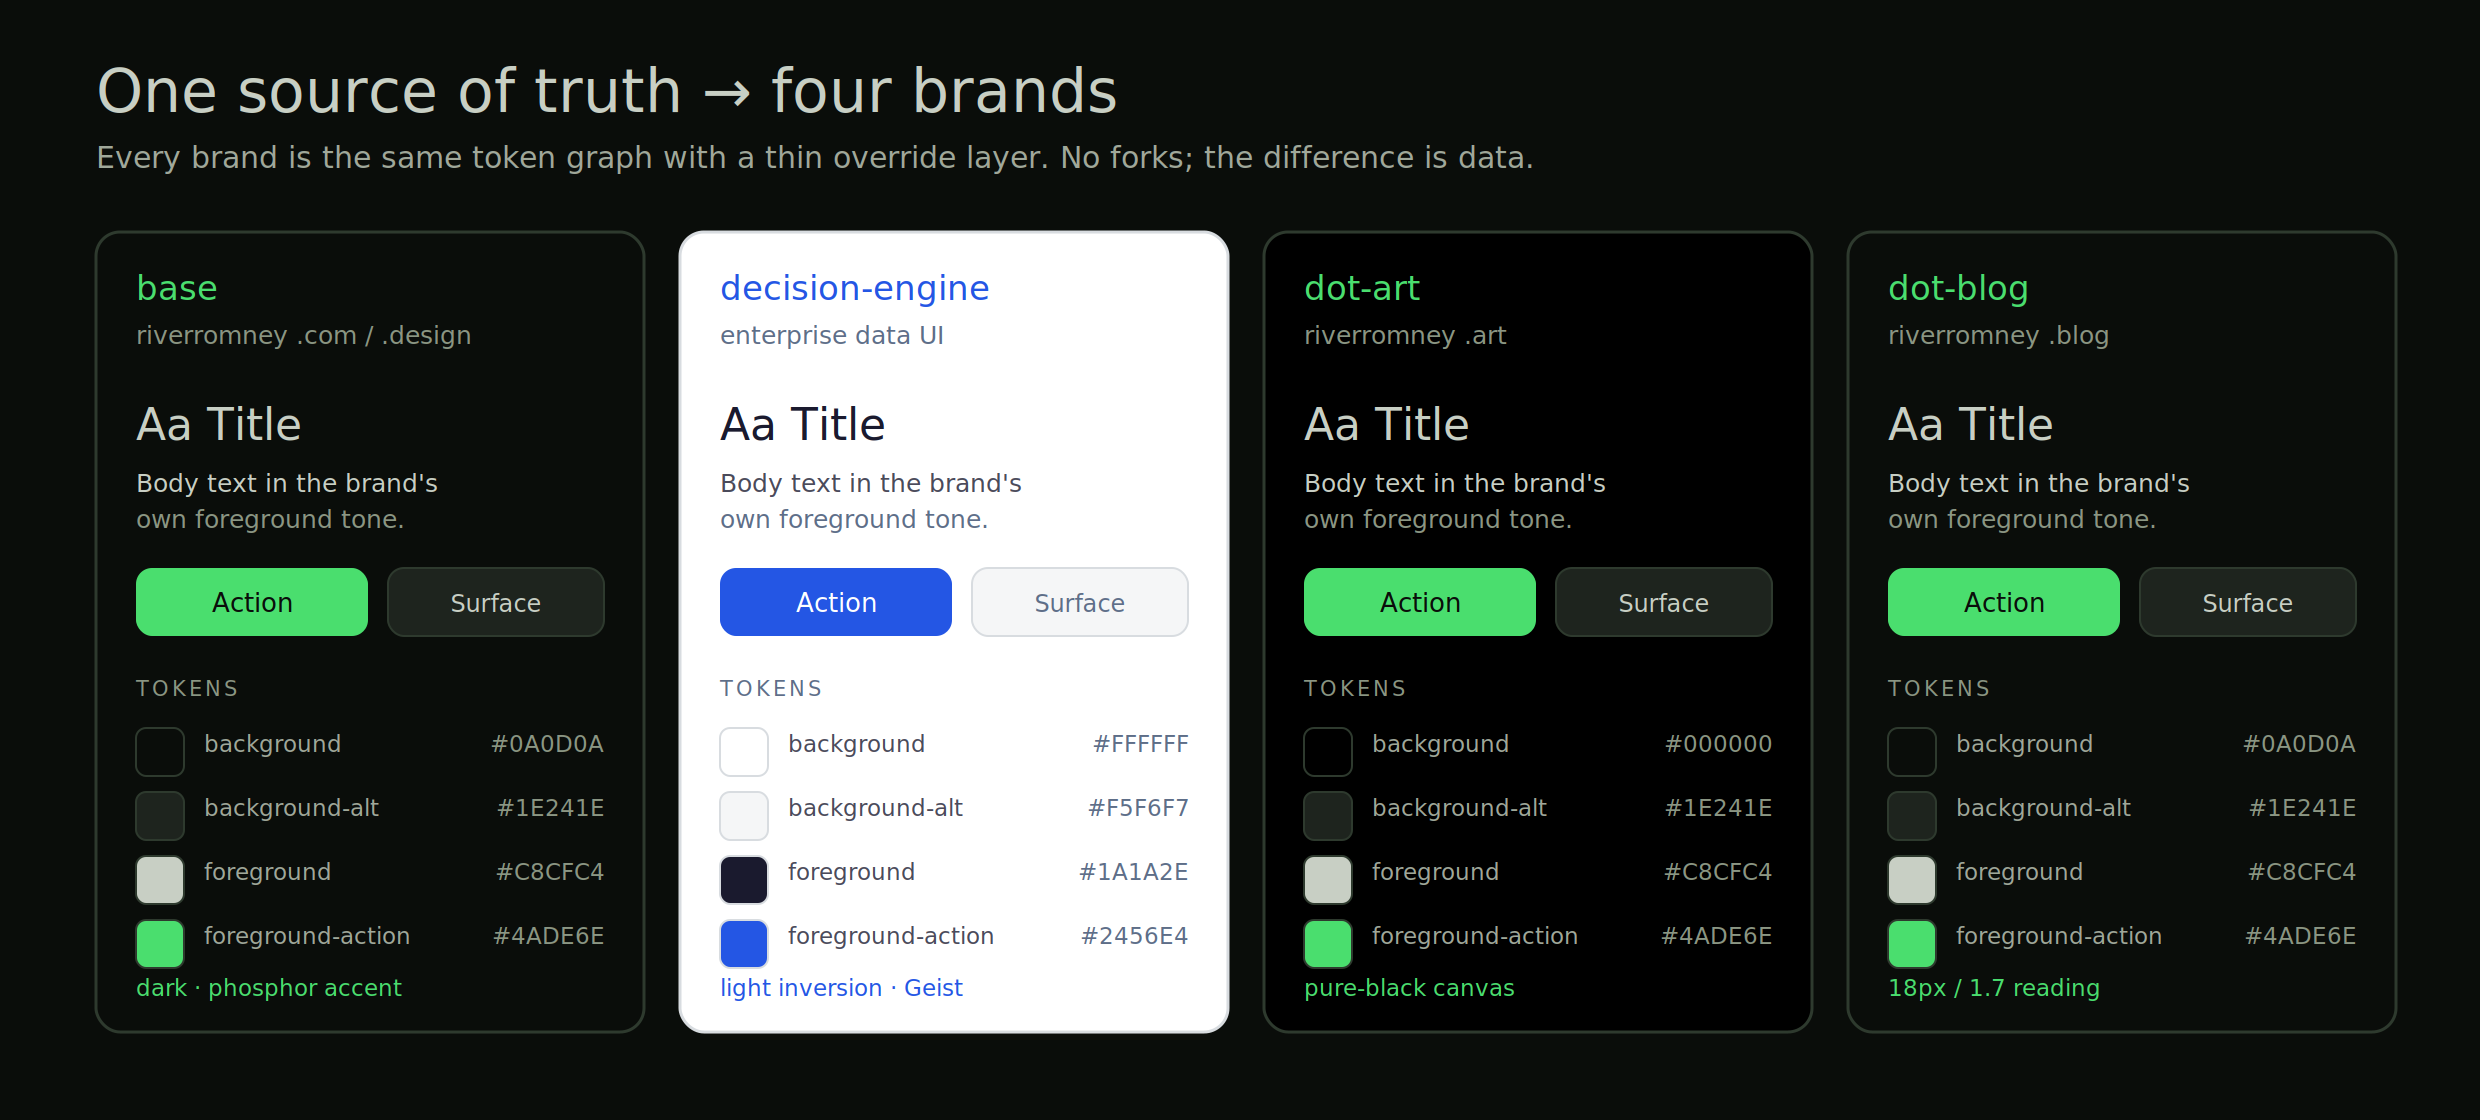
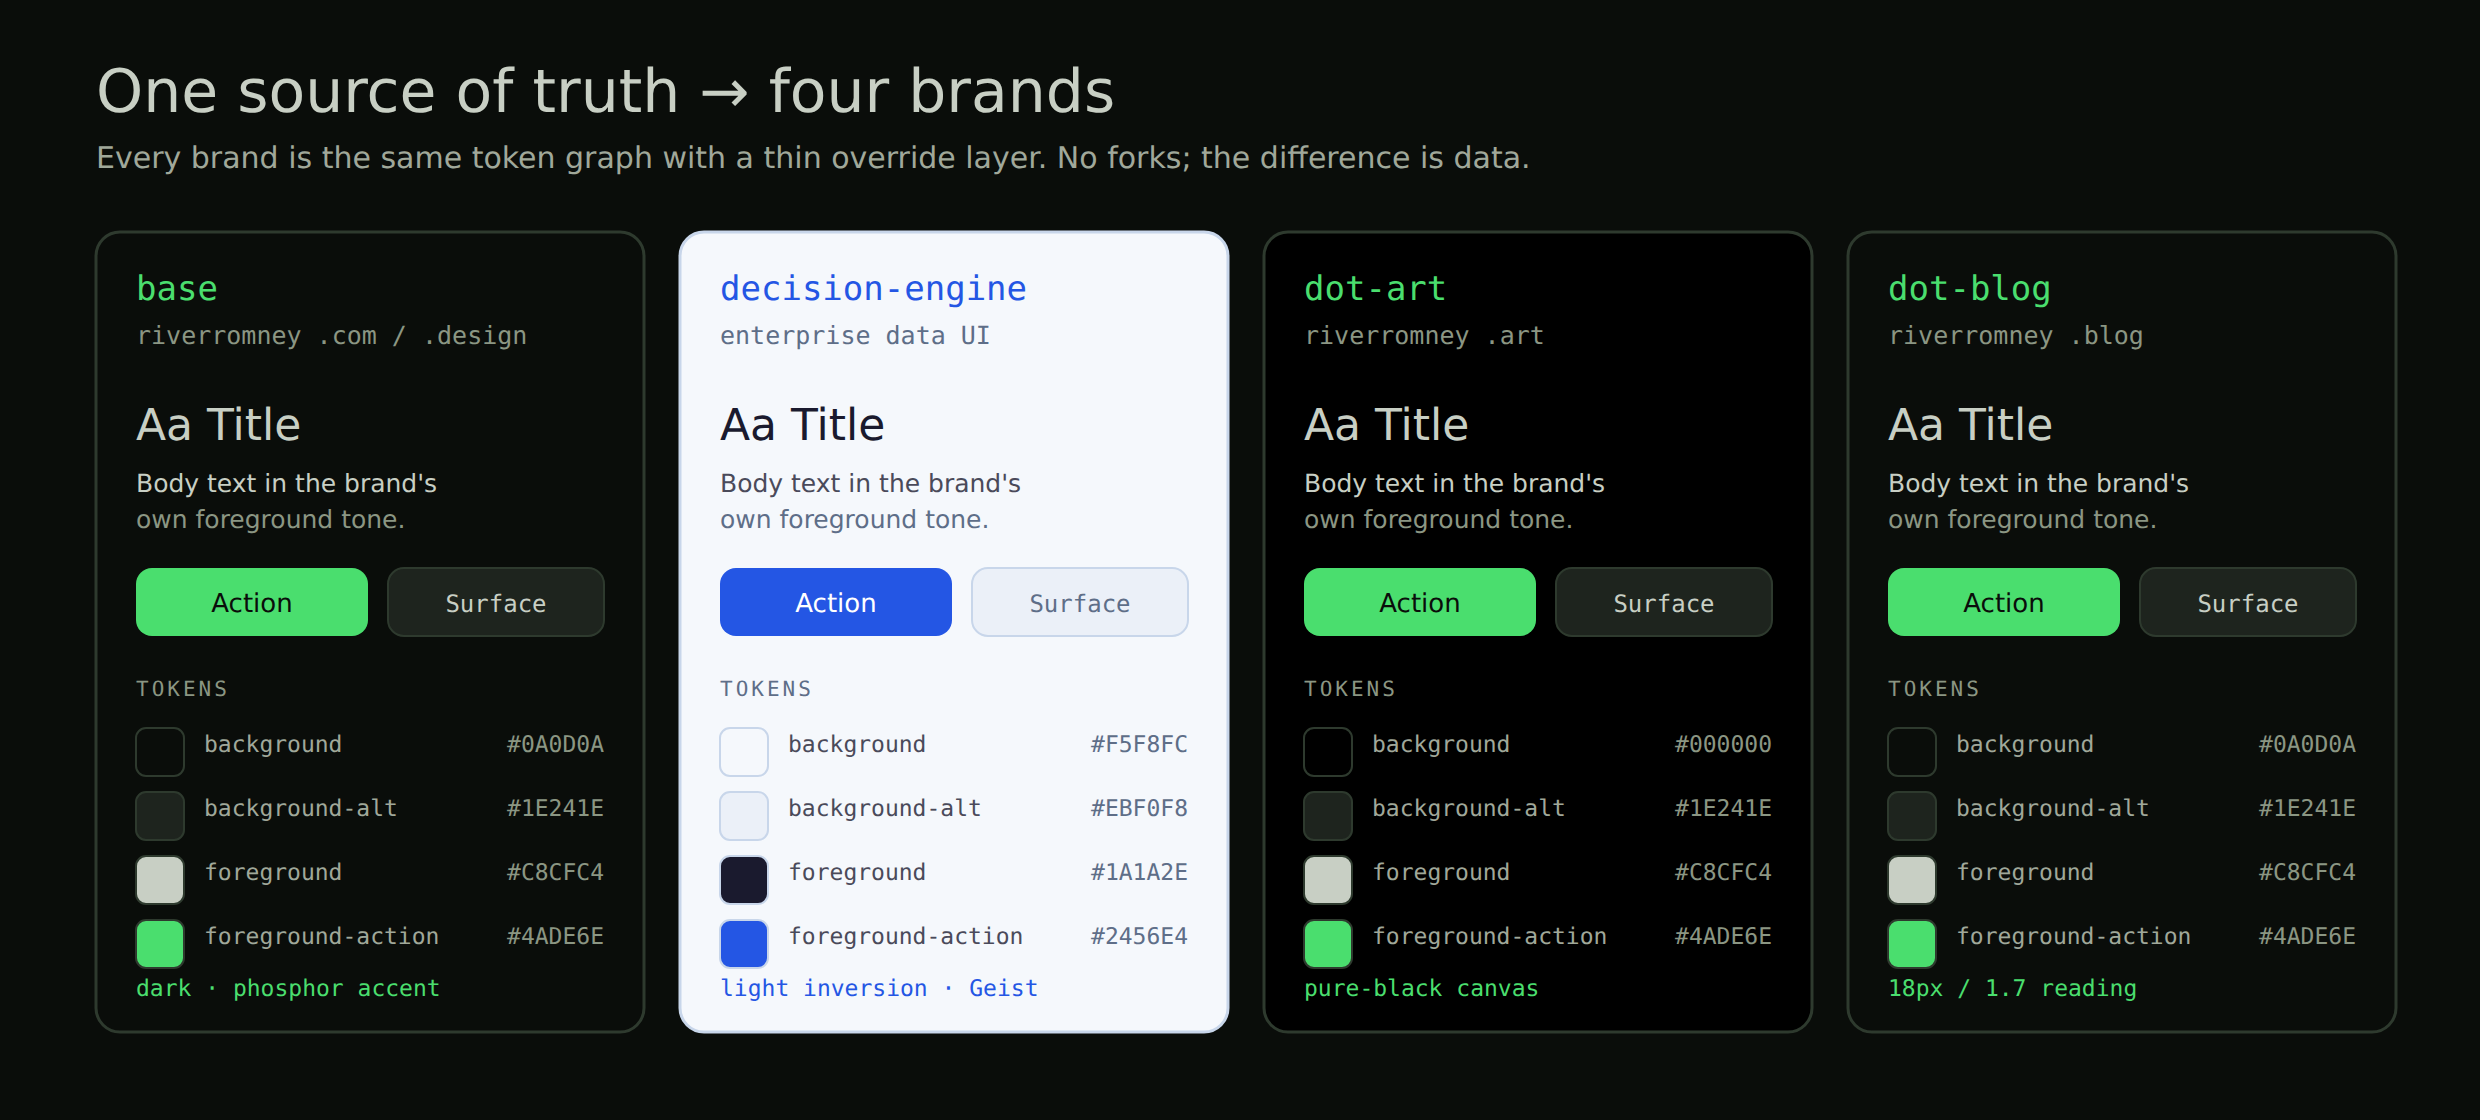
feat: rename /work/design-tokens to /work/system; refresh copy, links, and diagrams (#29)
- Slug rename: cases.ts + caseContent.ts key/slug + Nav SYSTEM link ->
  /work/system, with a 308 redirect from /work/design-tokens in
  next.config.ts (preserves shared/indexed links). Home/work/pager
  links follow the slug automatically.
- /tokens page: the one external link now points at
  github.com/digital2analogue/parsimony (text said Parsimony, href
  still said brand-tokens). Remaining brand-tokens comment mentions
  swept to Parsimony (layout, globals, CaseBlocks, tokens.ts).
- Case copy refreshed to current reality: 18 -> 21 components; the
  'three tools' MCP line -> 17 tools across contracts/tokens/rules/
  decisions/brands/contrast/lint; meta.json coverage moved out of
  'deliberately deferred' (it shipped, 21/21, JSDoc-single-sourced);
  consumer-migration item updated (portfolio, decisioning-table,
  river-intro consume the package today).
- Regenerated 2 stale diagrams from their SVG sources (rendered at 2x
  with the site's own self-hosted fonts): ds-architecture (21
  components, Code Connect 20/21, meta.json 21/21, 17-tool MCP) and
  ds-brands (decision-engine card now shows the arctic canvas
  #F5F8FC/#EBF0F8 from the 0.2.0 reconciliation instead of white).
  ds-meta-json, ds-check-usage, ds-agent-loop verified evergreen
  (badge's 31-token claim still exact).

Verified: 13/13 tests, contrast gate + build green, /work/system
prerendered, curl 308 old->new, pager + nav correct, no design-tokens
[…]

diff --git a/lib/caseContent.ts b/lib/caseContent.ts
@@ -851,8 +851,8 @@ export const CASE_CONTENT: Record<string, CaseContent> = {
       },
     ],
   },
-  "design-tokens": {
-    slug: "design-tokens",
+  "system": {
+    slug: "system",
     title: "Building Parsimony, an Agentic Design System",
     scope: "Token architecture, component library, agent tooling",
     timeline: "2026 (ongoing)",
@@ -925,7 +925,7 @@ export const CASE_CONTENT: Record<string, CaseContent> = {
         items: [
           "**Author.** DTCG tokens in three layers: primitives (raw values) → semantic (named roles) → component (scoped). Brand overrides use the same source.",
           "**Build.** Style Dictionary compiles every brand to CSS. A validation gate rejects hardcoded hex, primitive references, and dangling token aliases, so a rename that wasn't propagated fails the build, not production.",
-          "**Components.** 18 framework-agnostic Lit web components, all wired to Figma via Code Connect.",
+          "**Components.** 21 framework-agnostic Lit web components, wired to Figma via Code Connect.",
           "**Artifact.** Each component's hand-authored metadata merges with its auto-generated Custom Elements Manifest into a single design-system.json.",
           "**Interfaces.** Humans read Figma and Markdown docs; agents read an MCP server.",
           "**Consumers.** Every site and product repo pulls from one source, now as an installable token package.",
@@ -960,7 +960,7 @@ export const CASE_CONTENT: Record<string, CaseContent> = {
       },
       {
         type: "p",
-        text: "All 18 components carry an auto-generated Custom Elements Manifest, the basic API an agent needs to use one. Three of them (badge, button, input) add a hand-written meta.json on top, with the token, rule, and accessibility contract. The rest are built and wired to Figma; the fuller contract is rolling out behind them.",
+        text: "All 21 components carry an auto-generated Custom Elements Manifest, the basic API an agent needs to use one. Every one adds a hand-written meta.json on top, with the token, rule, and accessibility contract — and prop descriptions are single-sourced from the code's JSDoc, so the contract can't drift from the implementation.",
       },
       { type: "hr" },
       { type: "h2", text: "check_usage: Governance, Moved Upstream" },
@@ -1029,8 +1029,8 @@ export const CASE_CONTENT: Record<string, CaseContent> = {
         type: "ul",
         items: [
           "Three-layer token architecture across four brands",
-          "18 Lit web components, all wired to Figma via Code Connect",
-          "MCP server with three tools: list_components, get_component, check_usage",
+          "21 Lit web components, wired to Figma via Code Connect",
+          "MCP server with 17 tools: component contracts, token lookup, design rules and the decision log, brand diffs, WCAG contrast checks, and consumer-repo linting",
           "One shared rule set behind every checker: the build gate, the MCP's check_usage, and the consumer drift scan all import the same rules, so they can't disagree",
           "A CI gate on every change: schema checks, lint rules, token-reference resolution, a stale-artifact check, and a full test suite",
           "Distribution: the token build ships as a versioned npm package, and this very site already consumes it as a dependency instead of hand-copying the CSS",
@@ -1042,8 +1042,8 @@ export const CASE_CONTENT: Record<string, CaseContent> = {
       {
         type: "ul",
         items: [
-          "Hand-authored meta.json on all 18 components (the Custom Elements Manifest already covers all 18; the richer token/rule/a11y contract is on three so far)",
-          "Migrating the remaining sites onto the package (the portfolio consumes it today; .com, .art, .blog, and the decision-engine sub-brand follow as they come online)",
+          "Publishing the component library itself to npm (the token package ships today; the Lit components and the MCP server are next)",
+          "Migrating the remaining sites onto the package (this portfolio, the decision-engine prototype, and the intro page consume it today; .art and .blog follow as they come online)",
           "Auto-fixing drift: the scheduled scan detects it and files an issue today; having it open a fix PR (a codemod) is the remaining step",
         ],
       },

diff --git a/next.config.ts b/next.config.ts
@@ -8,6 +8,12 @@ const nextConfig: NextConfig = {
         destination: "/Romney_River_Resume.pdf",
         permanent: false,
       },
+      {
+        // Case study renamed 2026-07-02; preserve shared/indexed links.
+        source: "/work/design-tokens",
+        destination: "/work/system",
+        permanent: true,
+      },
     ];
   },
 };

diff --git a/app/globals.css b/app/globals.css
@@ -38,7 +38,7 @@
 
 /* ═══════════════════════════════════════════════════════════════════
    PORTFOLIO-SPECIFIC custom properties.
-   Values brand-tokens doesn't cover yet — proposed additions to the system.
+   Values Parsimony doesn't cover yet — proposed additions to the system.
    ═══════════════════════════════════════════════════════════════════ */
 :root {
   /* Content column widths — candidates for a layout-width family in the system. */
@@ -802,7 +802,7 @@ h2.eyebrow,
 
 /* ═══════════════════════════════════════════════════════════════════
    CaseBlocks — content blocks for case-detail pages (/work/[slug])
-   Each block type gets its own class consuming brand-tokens.
+   Each block type gets its own class consuming Parsimony tokens.
    ═══════════════════════════════════════════════════════════════════ */
 .blocks h2 {
   font: var(--font-title-medium);

diff --git a/components/Nav.tsx b/components/Nav.tsx
@@ -4,7 +4,7 @@ import { usePathname } from "next/navigation";
 
 const LINKS = [
   { label: "WORK", href: "/work" },
-  { label: "SYSTEM", href: "/work/design-tokens" },
+  { label: "SYSTEM", href: "/work/system" },
   // External: points at the Substack, so it opens in a new tab and never
   // participates in the active-page highlighting below.
   { label: "BLOG", href: "https://riverromney.substack.com", external: true },
@@ -14,7 +14,7 @@ const LINKS = [
 
 export default function Nav() {
   const pathname = usePathname();
-  // Most specific match wins, so /work/design-tokens lights up SYSTEM (not WORK),
+  // Most specific match wins, so /work/system lights up SYSTEM (not WORK),
   // while /work and other /work/* pages light up WORK.
   const matches = (href: string) =>
     href === "/" ? pathname === "/" : pathname === href || pathname.startsWith(href + "/");

diff --git a/lib/cases.ts b/lib/cases.ts
@@ -60,7 +60,7 @@ export const CASES: CaseStudy[] = [
     status: "COMPLETE",
   },
   {
-    slug: "design-tokens",
+    slug: "system",
     index: "04",
     title: "Parsimony, an Agentic Design System",
     company: "Personal",
@@ -70,7 +70,7 @@ export const CASES: CaseStudy[] = [
     summary:
       "A cross-site design system built to be used by agents as much as by people: one source of truth, from DTCG tokens through framework-agnostic components to an MCP server an agent can read and lint against before it writes any UI.",
     metrics: [
-      "18 components, 4 brands, 1 source",
+      "21 components, 4 brands, 1 source",
       "MCP server: read + lint the system",
       "Code Connect: design ↔ code, two-way",
     ],

diff --git a/app/layout.tsx b/app/layout.tsx
@@ -6,7 +6,7 @@ import FocusCaret from "@/components/FocusCaret";
 import { Analytics } from "@vercel/analytics/next";
 import "./globals.css";
 
-// Fonts match the brand-tokens system:
+// Fonts match the Parsimony design system:
 //   sans  → Space Grotesk (titles, UI labels)
 //   serif → Spectral       (body prose)
 //   mono  → JetBrains Mono (code + terminal UI chrome)

diff --git a/app/tokens/page.tsx b/app/tokens/page.tsx
@@ -387,7 +387,7 @@ export default function TokensPage() {
       <p className="bio-inline rise d8">
         Every token above is generated at build time from{" "}
         <a
-          href="https://github.com/digital2analogue/brand-tokens"
+          href="https://github.com/digital2analogue/parsimony"
           className="accent"
         >
           Parsimony

diff --git a/components/CaseBlocks.tsx b/components/CaseBlocks.tsx
@@ -6,7 +6,7 @@ import type { Block } from "@/lib/caseContent";
  * Renders a case-study content stream as typed React blocks.
  * Styling lives in globals.css under the `.blocks` scope — CaseBlocks
  * renders semantic HTML; all typography, spacing, and color comes from
- * brand-tokens via CSS classes.
+ * Parsimony tokens via CSS classes.
  */
 export default function CaseBlocks({ blocks }: { blocks: Block[] }) {
   return (

diff --git a/lib/tokens.ts b/lib/tokens.ts
@@ -2,7 +2,7 @@
 // globals.css is the source of truth; these are only for inline-style use cases
 // where a CSS class would be overkill (e.g. one-off dynamic styling).
 //
-// Prefer CSS classes for all new styling — the brand-tokens system lives in CSS,
+// Prefer CSS classes for all new styling — the Parsimony system lives in CSS,
 // not here.
 
 export const T = {